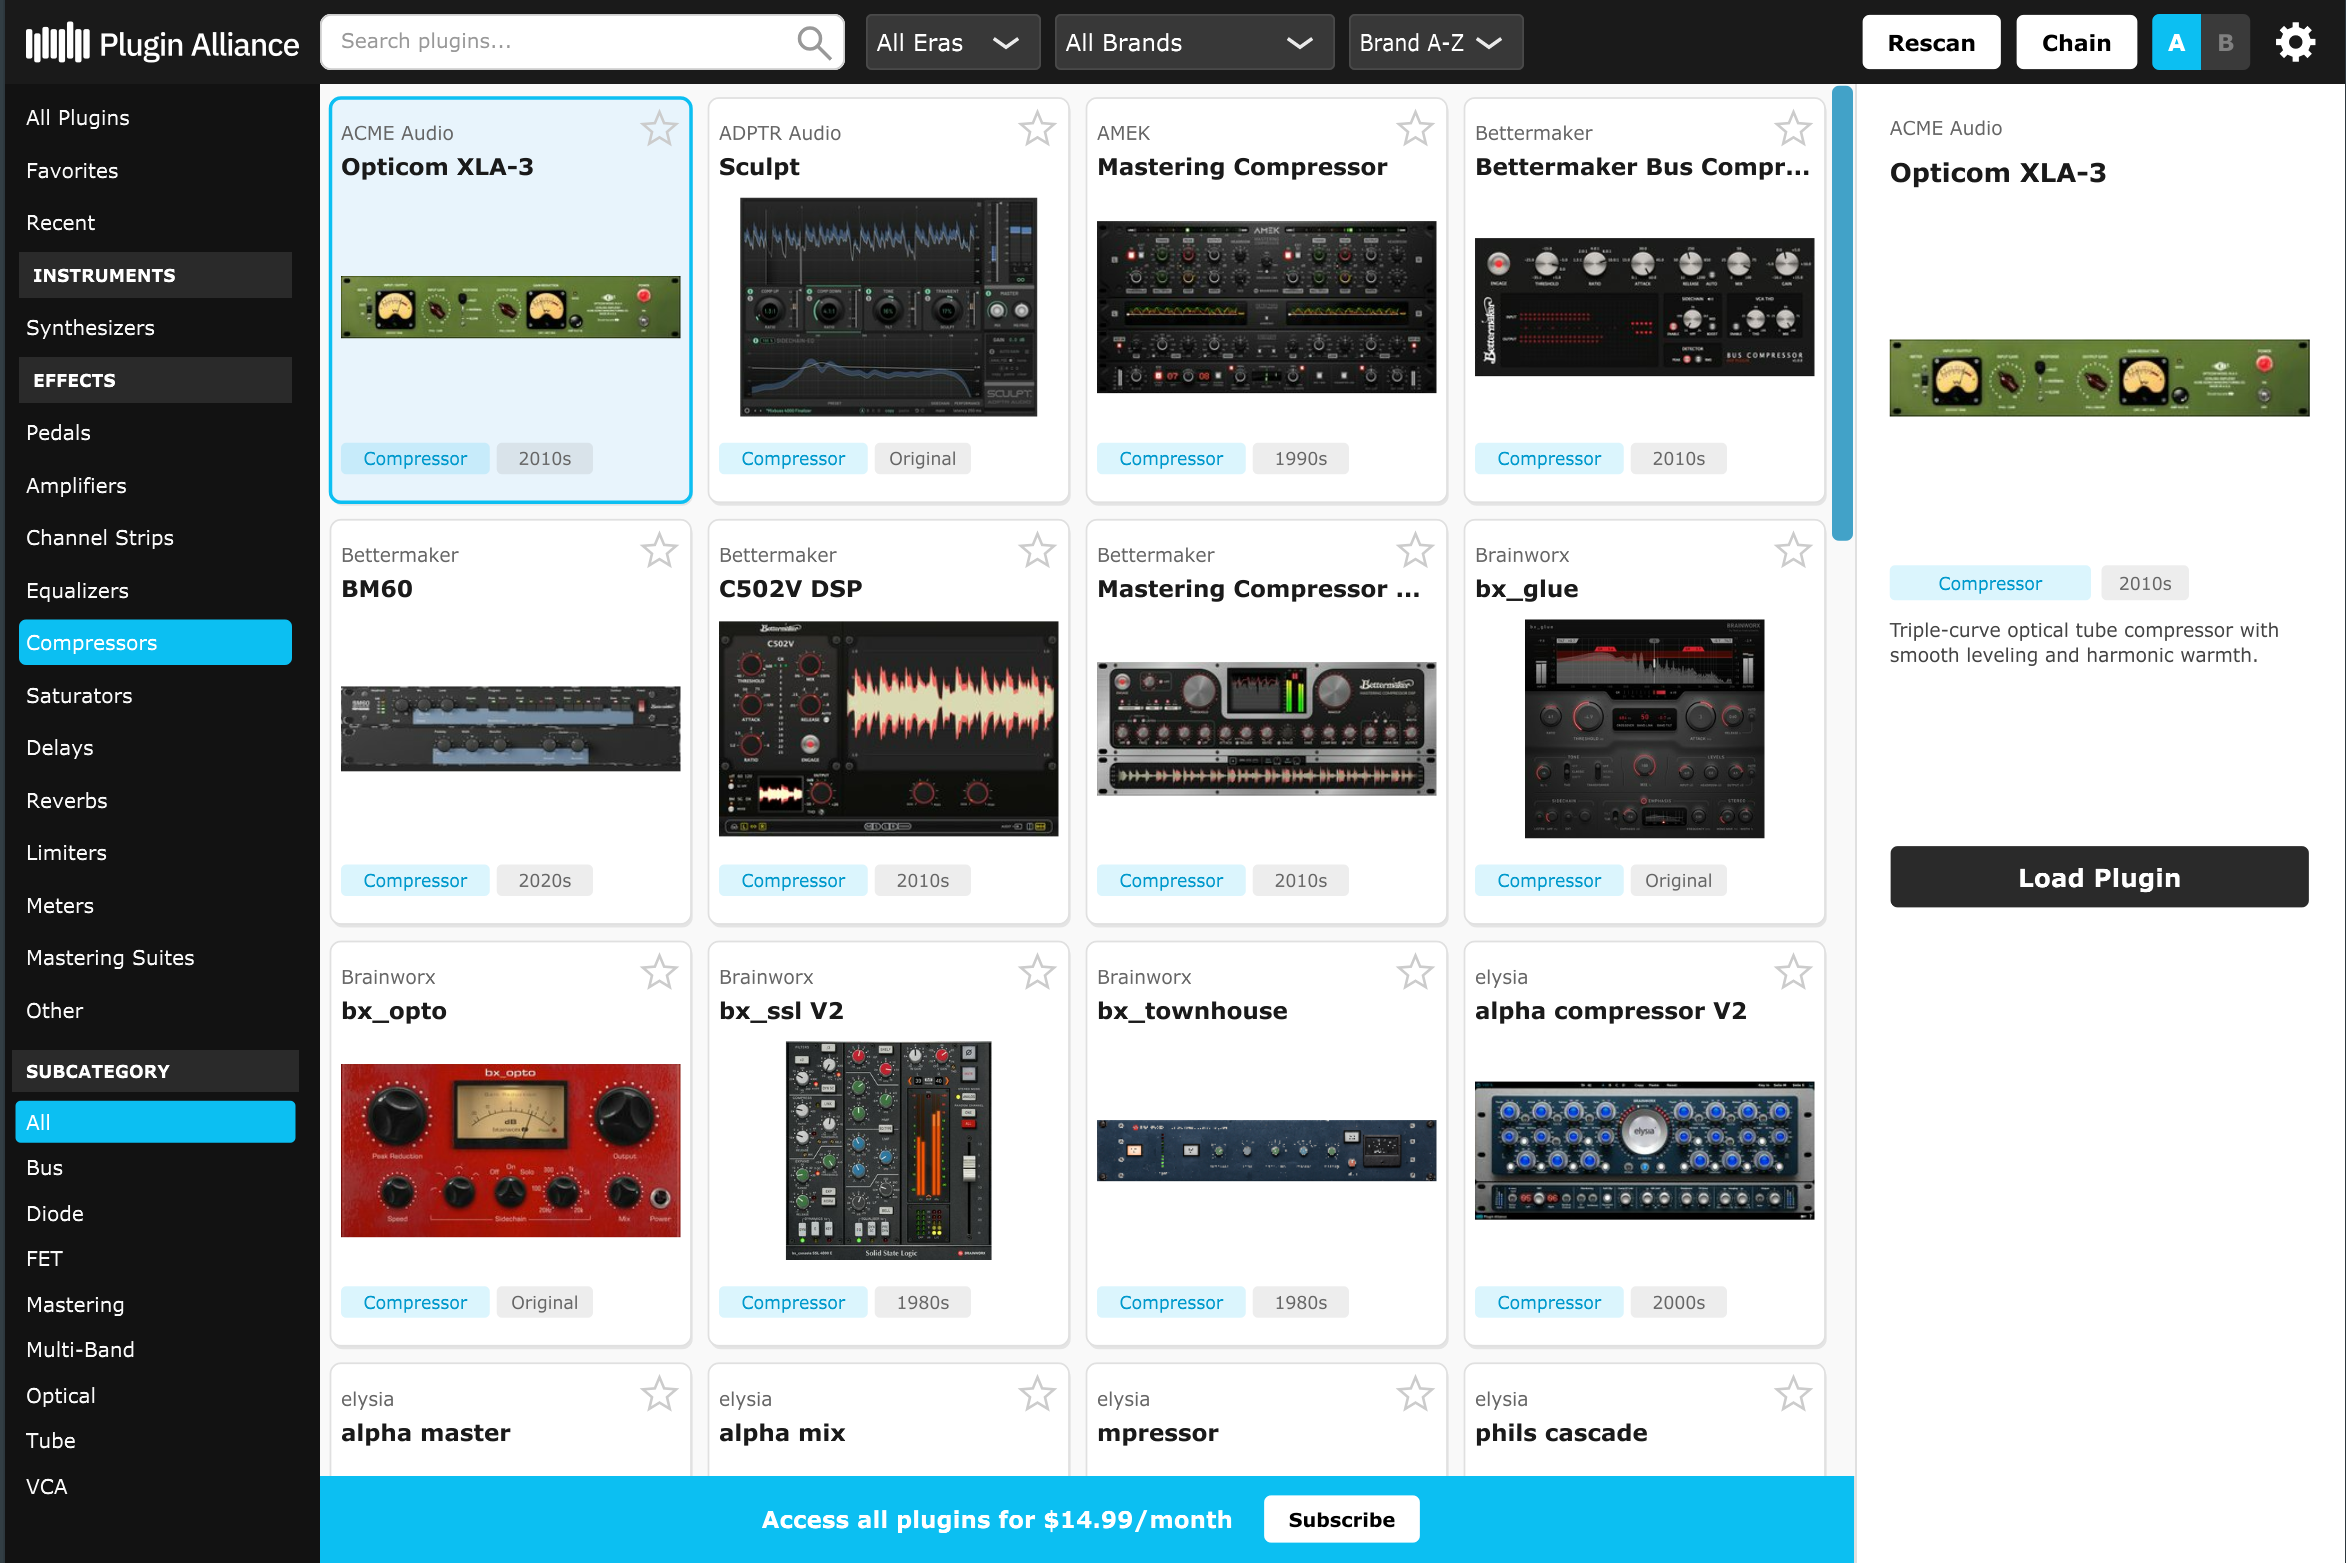
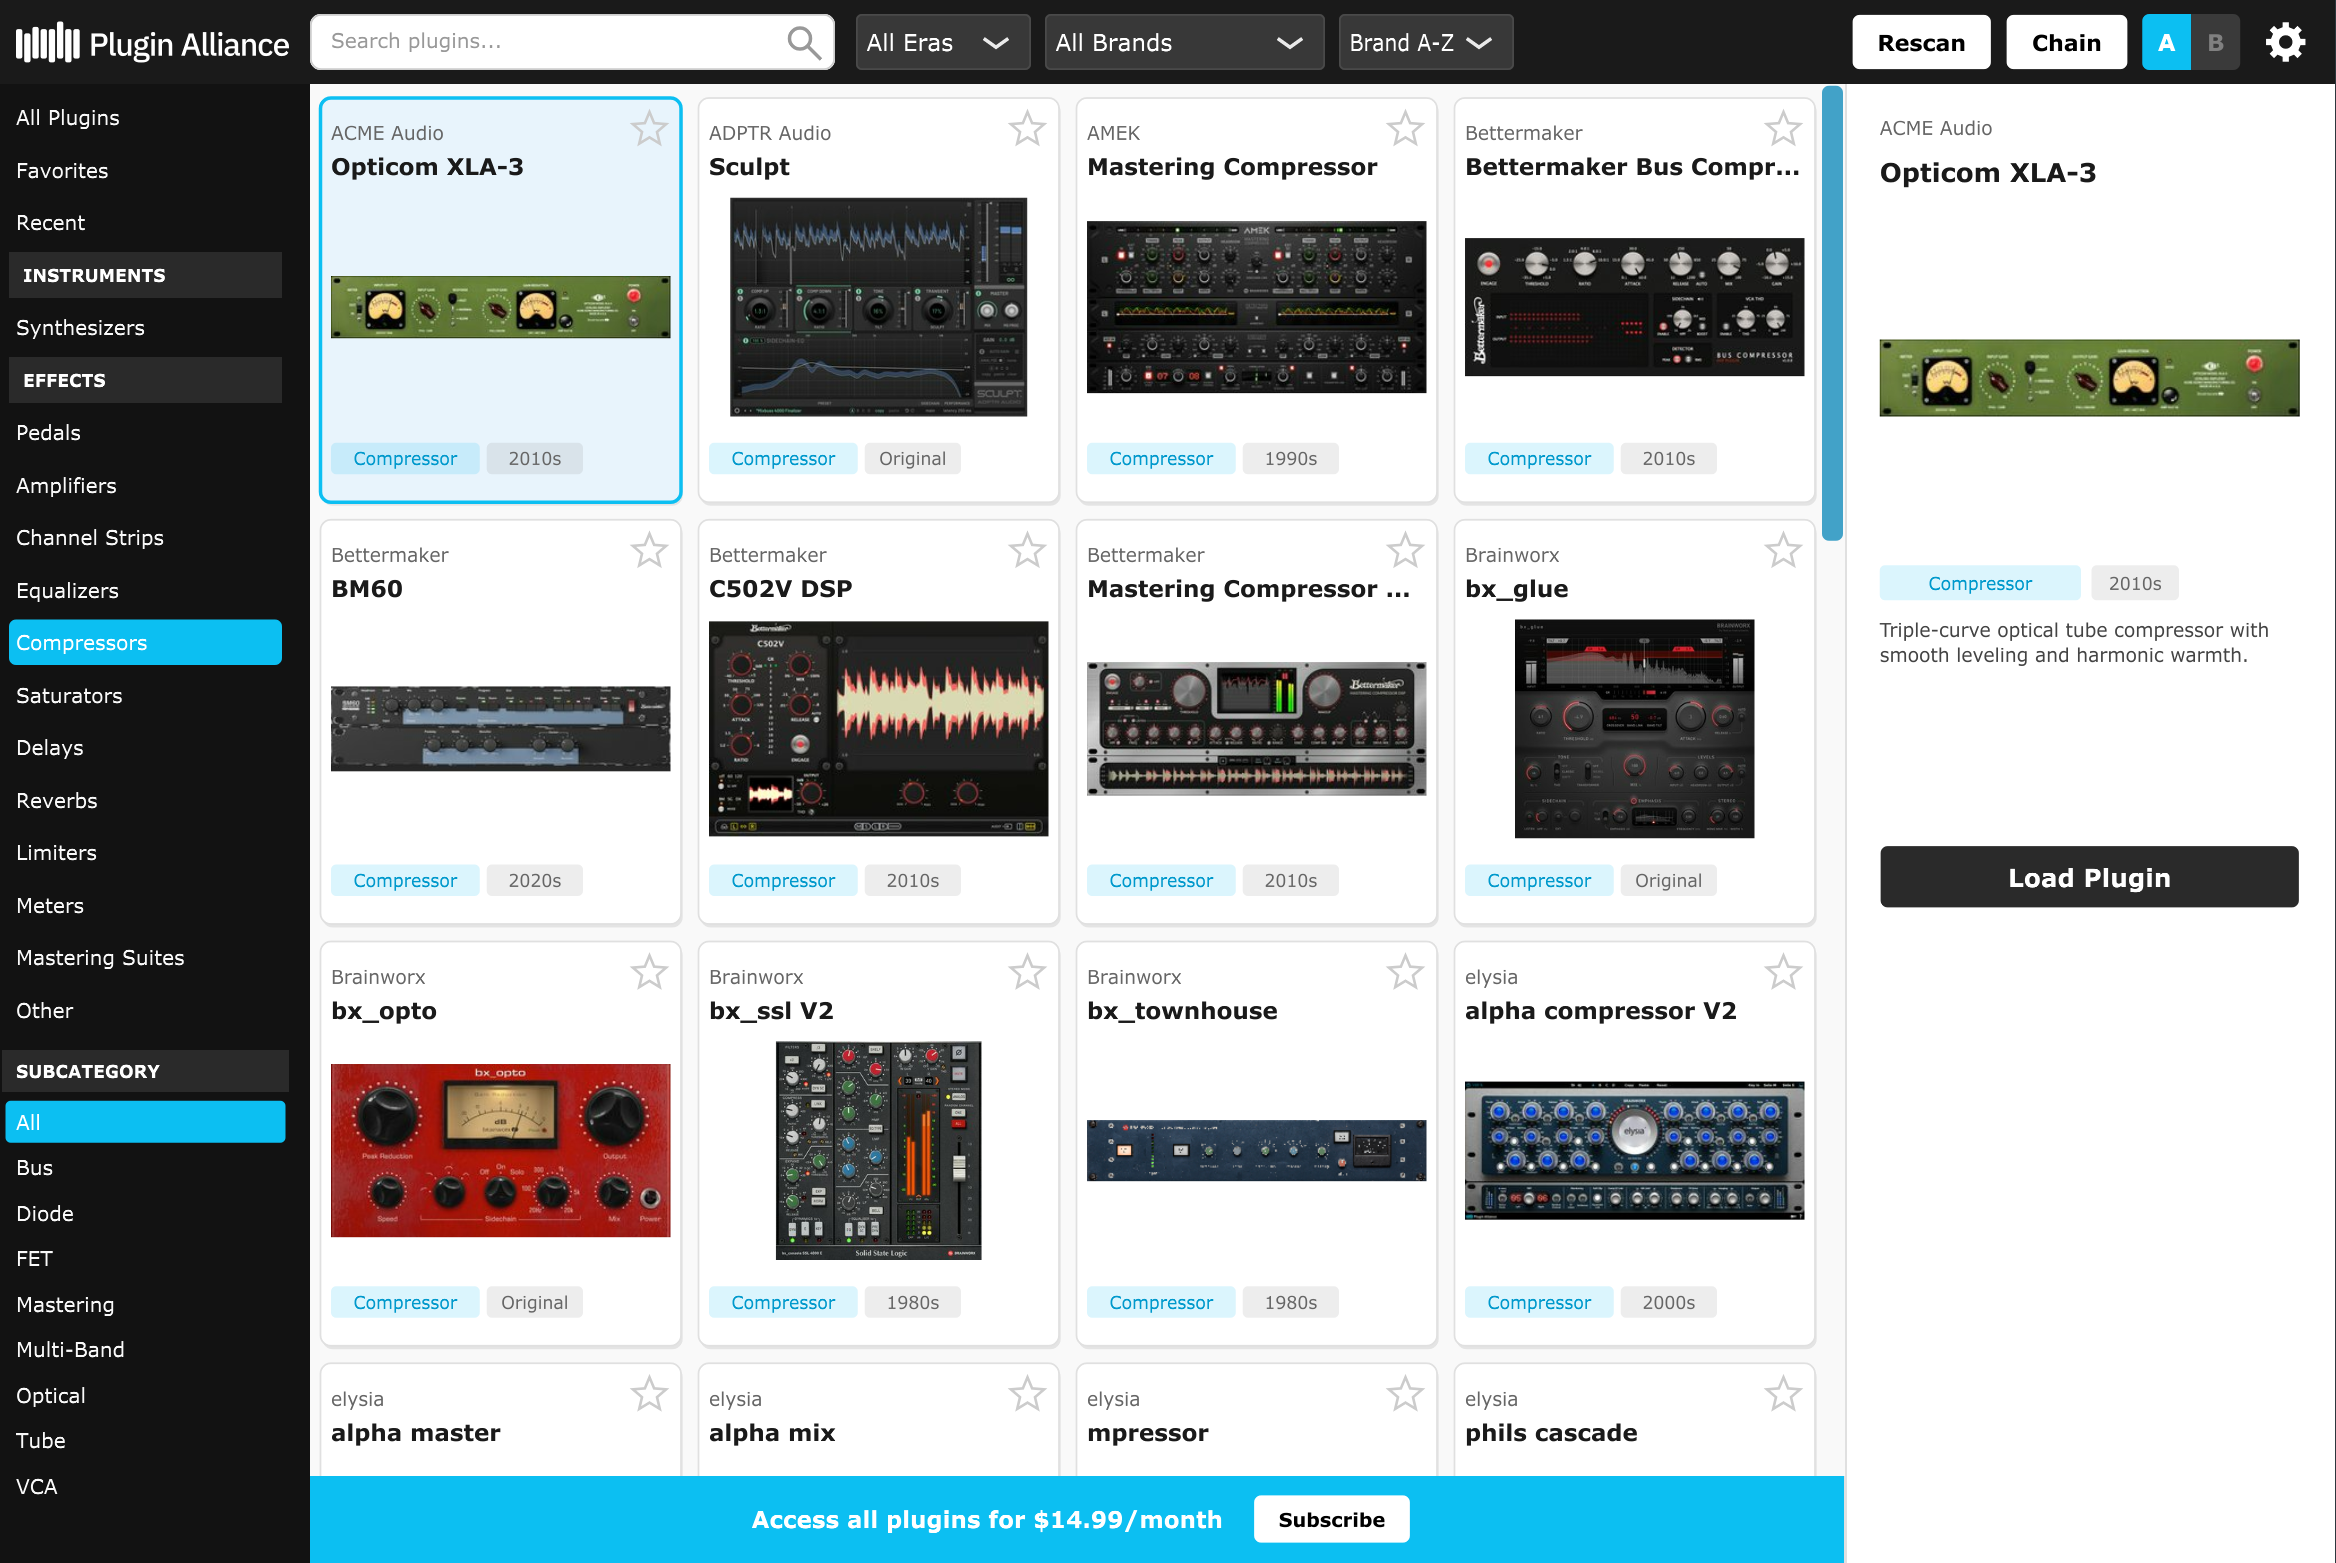
Update browser screenshot and plugin count to 200+

diff --git a/README.md b/README.md
@@ -6,7 +6,7 @@ A VST3/AU plugin built with the JUCE framework that provides a searchable browse
 
 ## Features
 
-- **Plugin Browser** - Search and filter 150+ Plugin Alliance plugins by category, subcategory, era, and brand
+- **Plugin Browser** - Search and filter 200+ Plugin Alliance plugins by category, subcategory, era, and brand
 - **8-Slot Plugin Chain** - Load plugins into a serial processing chain with per-slot bypass, reordering, and gain control
 - **A/B Comparison** - Each chain slot has independent A and B hosts, letting you load two different plugins and toggle between them
 - **Auto-Gain (LUFS Matching)** - Automatic loudness-matched output per slot using ITU-R BS.1770 K-weighted LUFS measurement, removing the "louder = better" bias when comparing plugins